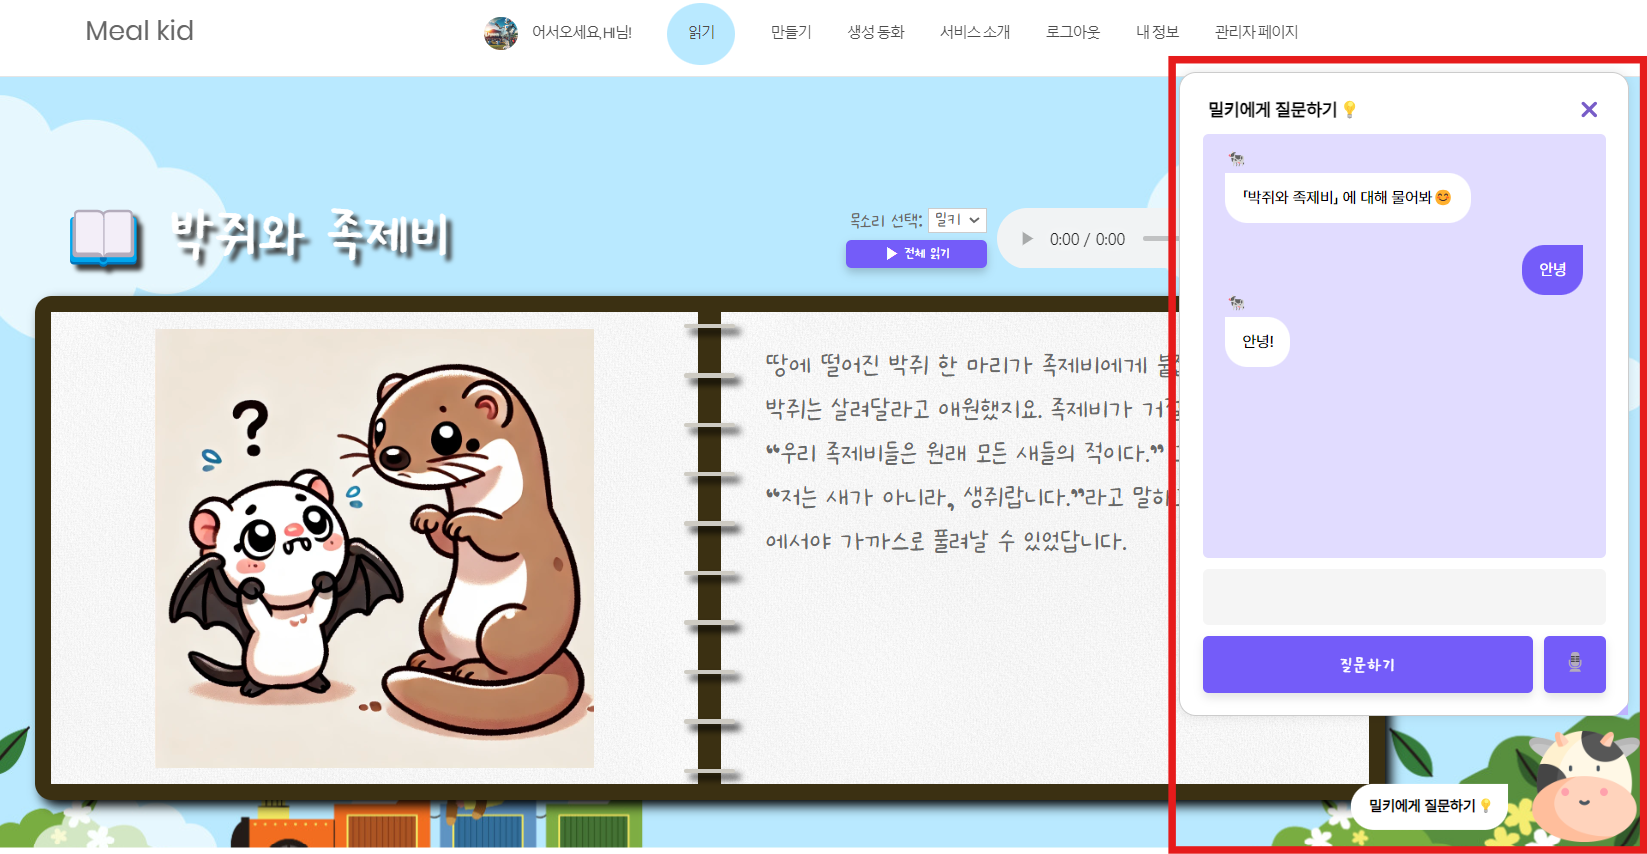
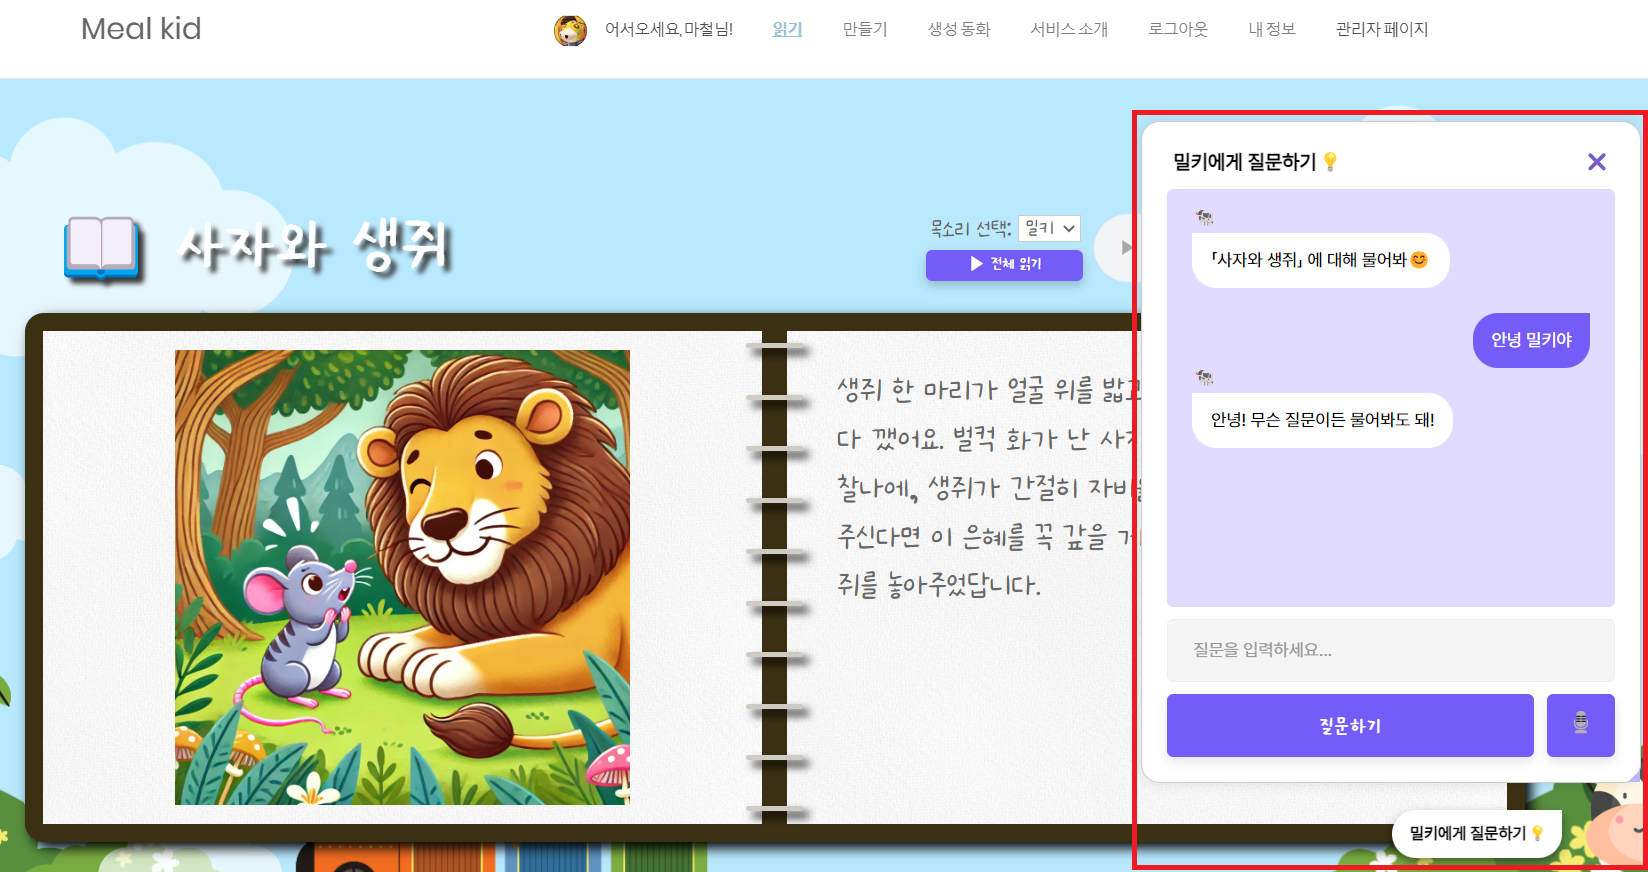
소개 페이지 멘트, 사진 수정

diff --git a/mysite/mine/templates/mine/index.html b/mysite/mine/templates/mine/index.html
@@ -3,33 +3,33 @@
 {% load static %}
 <html lang="ko">
 <head>
-    <title>{% block title %}서비스 소개</title>
-</head>{% endblock %}
+    <title>{% block title %}서비스 소개{% endblock %}</title>
+</head>
 {% block content %}
 <body>
     <div class='service'>
+        <h1><img class="logo-img" src="{% static 'images/서비스로고.png' %}"></h1>
         <div class='service-text'>
-            <h1><img src="{% static 'images/서비스로고.png' %}"></h1>
             <hr class="custom-hr">
-            <p>Meal Kid는 직접 조리해야 완성되는 밀키트처럼 직접 컨텐츠에 참여하여 창의력과 상상력을 향상시켜주고 개인 맞춤형 학습 경험을 제공하는 유아 동화 플랫폼입니다.</p>
+            <p>Meal Kid는 직접 조리해야 완성되는 밀키트처럼 아이들이 직접 컨텐츠에 참여하여 창의력과 상상력을 키울 수 있는 개인 맞춤형 학습 경험을 제공하는 유아 동화 플랫폼입니다.</p><br>
             <img src="{% static 'images/read.png' %}" alt="서비스1">
             <p>1. 400여편의 동화를 음성으로 들을 수 있는 기능을 통해 아이들에게 책 읽기의 즐거움을 선사합니다.</p><br><br>
             <img src="{% static 'images/chatbot.png' %}" alt="서비스2">
-            <p>2. 챗봇 '밀키'가 동화와 관련된 질문에 답해주어 아이들의 호기심을 충족시켜줍니다.</P><br><br>
+            <p>2. 챗봇 '밀키'와 동화에 대한 질문과 답변을 주고받으면서 아이들의 호기심을 충족시켜줍니다.</p><br><br>
             <img src="{% static 'images/gen1.png' %}" alt="서비스3">
-            <p>3. 아이들이 직접 동화를 만들어볼 수 있는 기능을 통해 상상력을 발휘할 수 있습니다.</P><br><br>
+            <p>3. 아이들이 생각하는 내용을 직접 동화로 만들어보는 기능을 통해 상상력을 발휘할 수 있습니다.</p><br><br>
             <img src="{% static 'images/quiz.png' %}" alt="서비스4">
-            <p>4. 동화를 읽은 후 퀴즈를 풀거나 독후감을 작성하며 학습을 강화합니다.</P><br><br>
+            <p>4. 동화를 읽은 후 퀴즈를 풀거나 독후감을 작성하며 학습을 강화합니다.</p>
         </div>
         
         <div class='effect'>
             <h1>기대 효과</h1>
             <hr class="custom-hr">
-            <p>1. 상상력 및 창의력 항상 : 다양한 상황과 캐릭터를 통해 상상력과 창의적 사고를 촉진시킵니다.</p>
+            <p>1. 상상력 및 창의력 항상 : 읽기, 생성, 질의응답 등 다양한 기능을 통해 상상력과 창의적 사고를 촉진시킵니다.</p>
             <p>2. 개인 맞춤형 학습 경험 제공 : AI로 아이의 취향에 맞춘 동화를 추천하여 학습의 재미와 몰입도를 높일 수 있습니다.</p>
-            <p>3. 대화형 학습을 통한 언어 능력과 의사소통 능력 향상 : AI와의 대화를 통해 언어와 의사소통 능력을 자연스럽게 향상시킵니다.</p>
-            <p>4. 지속적인 학습에 대한 동기 부여 및 성취감 제공 : 출석체크와 퀴즈를 통해 학습 참여와 성취감을 높입니다.</p>
-            <p>5. 편리한 사용성과 접근성 : Django 기반 웹 시스템으로 PC와 모바일에서 쉽게 접근 가능합니다.</p>
+            <p>3. 대화를 통한 언어 능력과 의사소통 능력 향상 : 챗봇 AI와의 대화를 통해 언어와 의사소통 능력을 자연스럽게 향상시킵니다.</p>
+            <p>4. 지속적 학습에 대한 동기 부여 및 성취감 제공 : 출석체크와 퀴즈를 통해 학습 참여와 성취감을 높입니다.</p>
+            <p>5. 편리한 사용성과 접근성 : Django 기반 웹 시스템으로 PC와 모바일에서 접근 가능합니다.</p>
             <p>6. 유해한 콘텐츠로부터 보호 : 선별된 동화만 제공하여 유해 콘텐츠로부터 아이들을 보호합니다.</p>
         </div>
 
@@ -74,7 +74,6 @@
 </body>
 
 <style>
-
     @font-face {
         font-family: 'Pretendard-Regular';
         src: url('https://fastly.jsdelivr.net/gh/Project-Noonnu/noonfonts_2107@1.1/Pretendard-Regular.woff') format('woff');
@@ -113,12 +112,23 @@
         padding: 20px;
     }
 
+
+    .logo-img {
+        width: 70%; /* 원하는 크기로 조절 */
+        height: auto;
+        display: block;
+        margin: 0 auto; /* 가운데 정렬 */
+    }
+
     .service-text img {
         width: 60%; /* 원하는 크기로 조절 */
         height: auto;
         display: block;
-        margin: 0 auto 10px; /* 가운데 정렬 */
-        border-radius: 8px; /* 테두리 둥글게 조절 */
+        margin: 20px auto; /* 가운데 정렬 및 위아래 간격 추가 */
+        border-radius: 15px; /* 이미지 자체의 둥근 테두리 */
+        background-color: white; /* 흰색 배경 */
+        padding: 10px; /* 흰색 배경 크기 조절 */
+        box-sizing: border-box; /* 패딩을 포함한 크기 조절 */
     }
 
     .effect {
